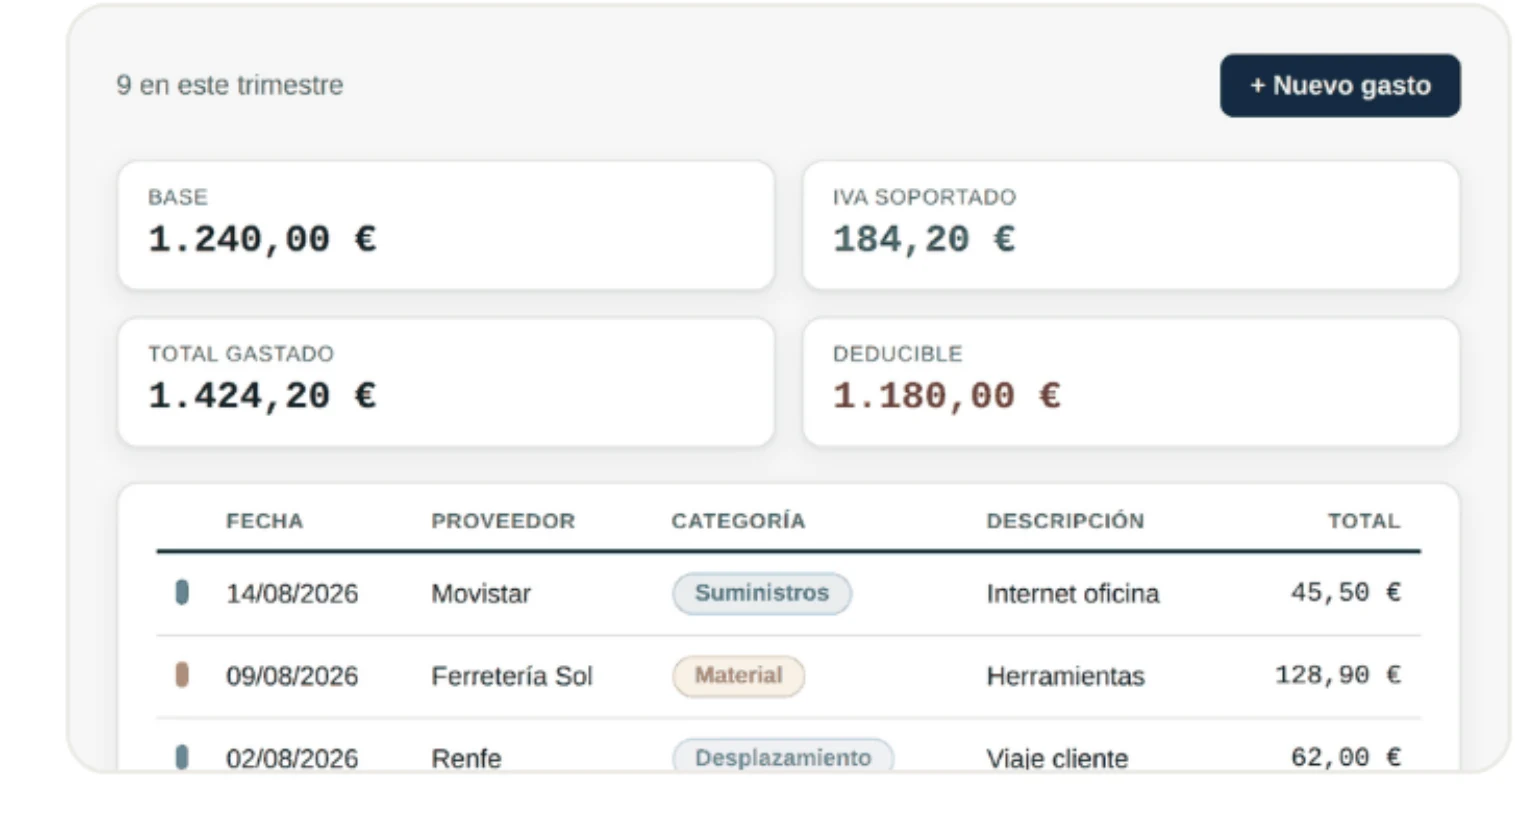
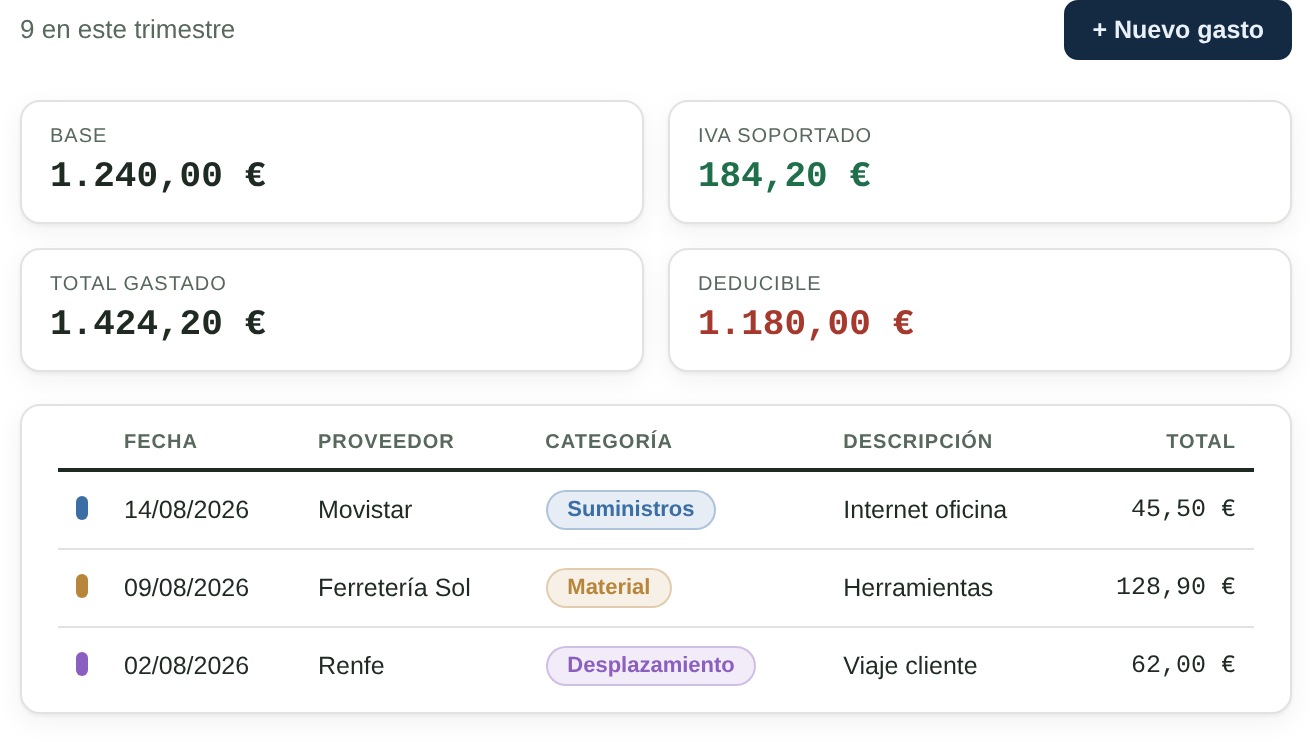
Imatges a Funciones

diff --git a/src/styles/global.css b/src/styles/global.css
@@ -450,6 +450,20 @@ section{ padding:96px 0; }
 .capsula-captura .preview-title{ font-size:11px; margin-left:6px; }
 .capsula-captura img{ display:block; width:100%; height:auto; }
 
+/* Corrección 2026-08-22 (quinta entrega, mismo día) — Miq dio marcha
+   atrás en la cabecera Mac ("Me he equivocado. Perdona.") y en su lugar
+   va a mandar imágenes finales ya hechas por la sesión app, en PNG con
+   fondo TRANSPARENTE — esquinas redondeadas y sombra ya resueltas en el
+   propio canal alfa de la imagen, no dibujadas sobre un fondo blanco.
+   Para esas tarjetas, `.capsula-captura` no debe pintar su propio
+   borde/fondo/recorte (todo eso lo trae ya la imagen) — solo hacer de
+   contenedor. Modificador `.is-transparent`, añadido a la tarjeta que ya
+   tiene su imagen nueva (`ic-resumen`/"Sabe cuánto ganas de verdad");
+   añadir a las demás según Miq vaya mandando sus imágenes. */
+.capsula-captura.is-transparent{
+  border:none; border-radius:0; overflow:visible;
+}
+
 /* Cinta "¡AÚN NO ACTIVADO!" de la tarjeta Verifactu — técnica documentada
    por la sesión app: el `overflow:hidden` que recorta la cinta NO va en
    la tarjeta entera, sino en un contenedor cuadrado propio pegado a la
